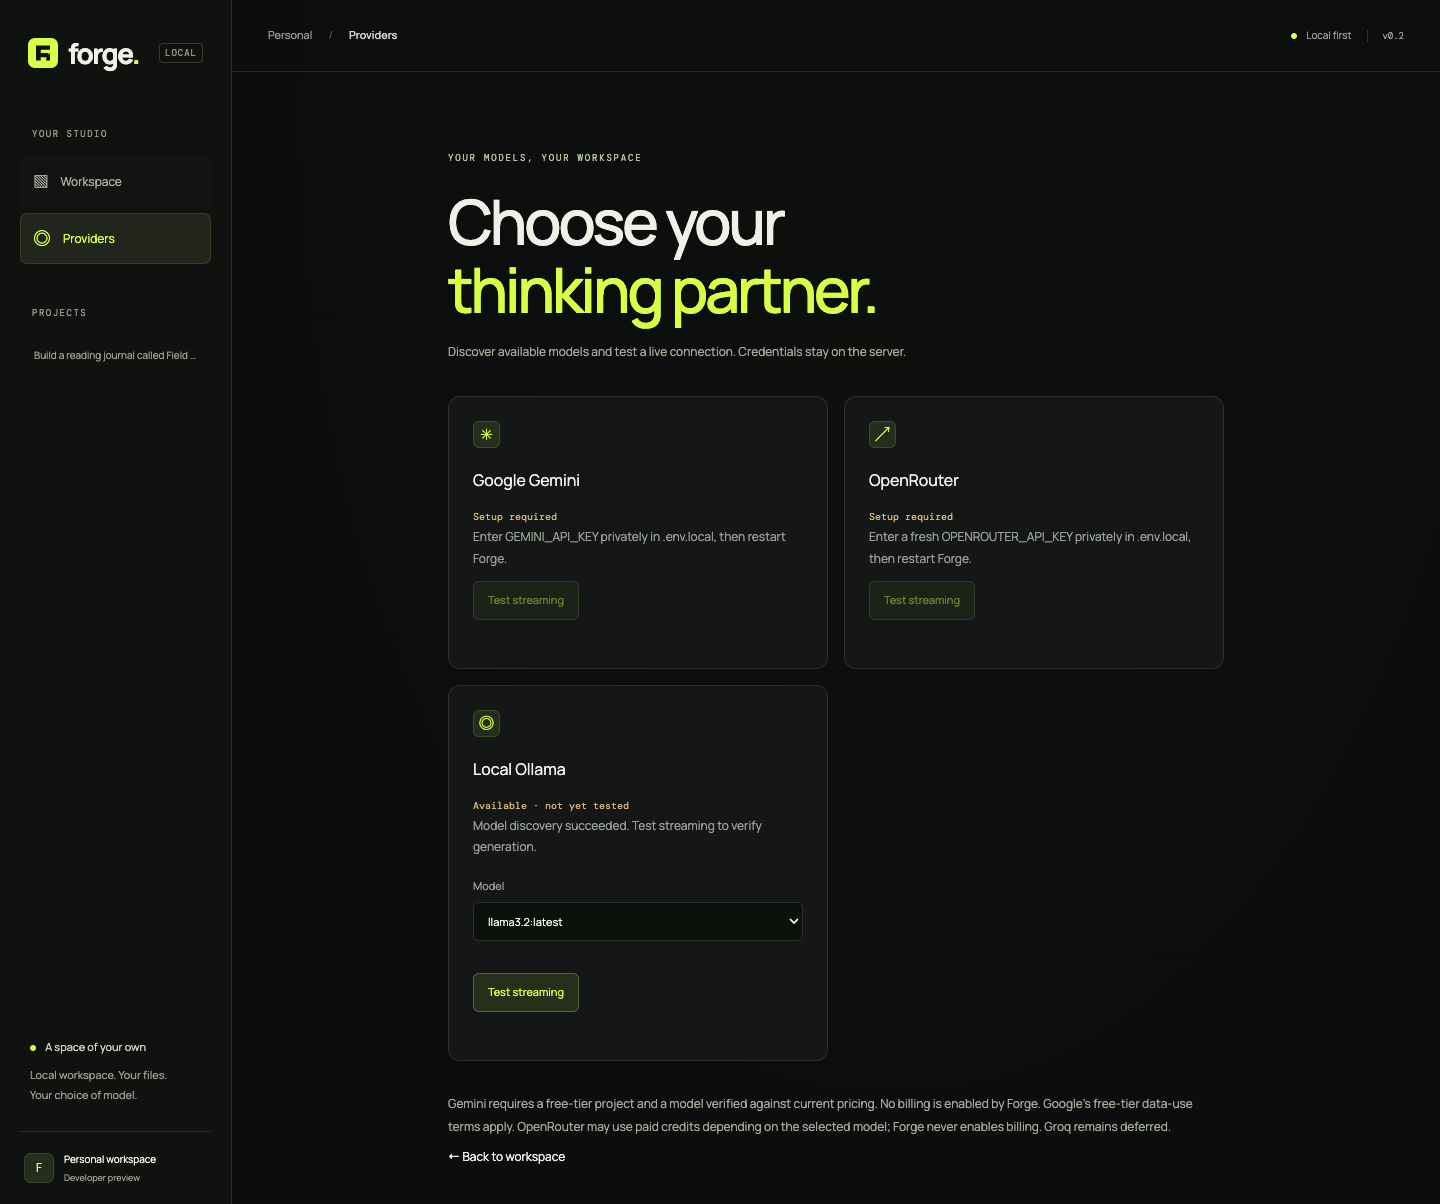
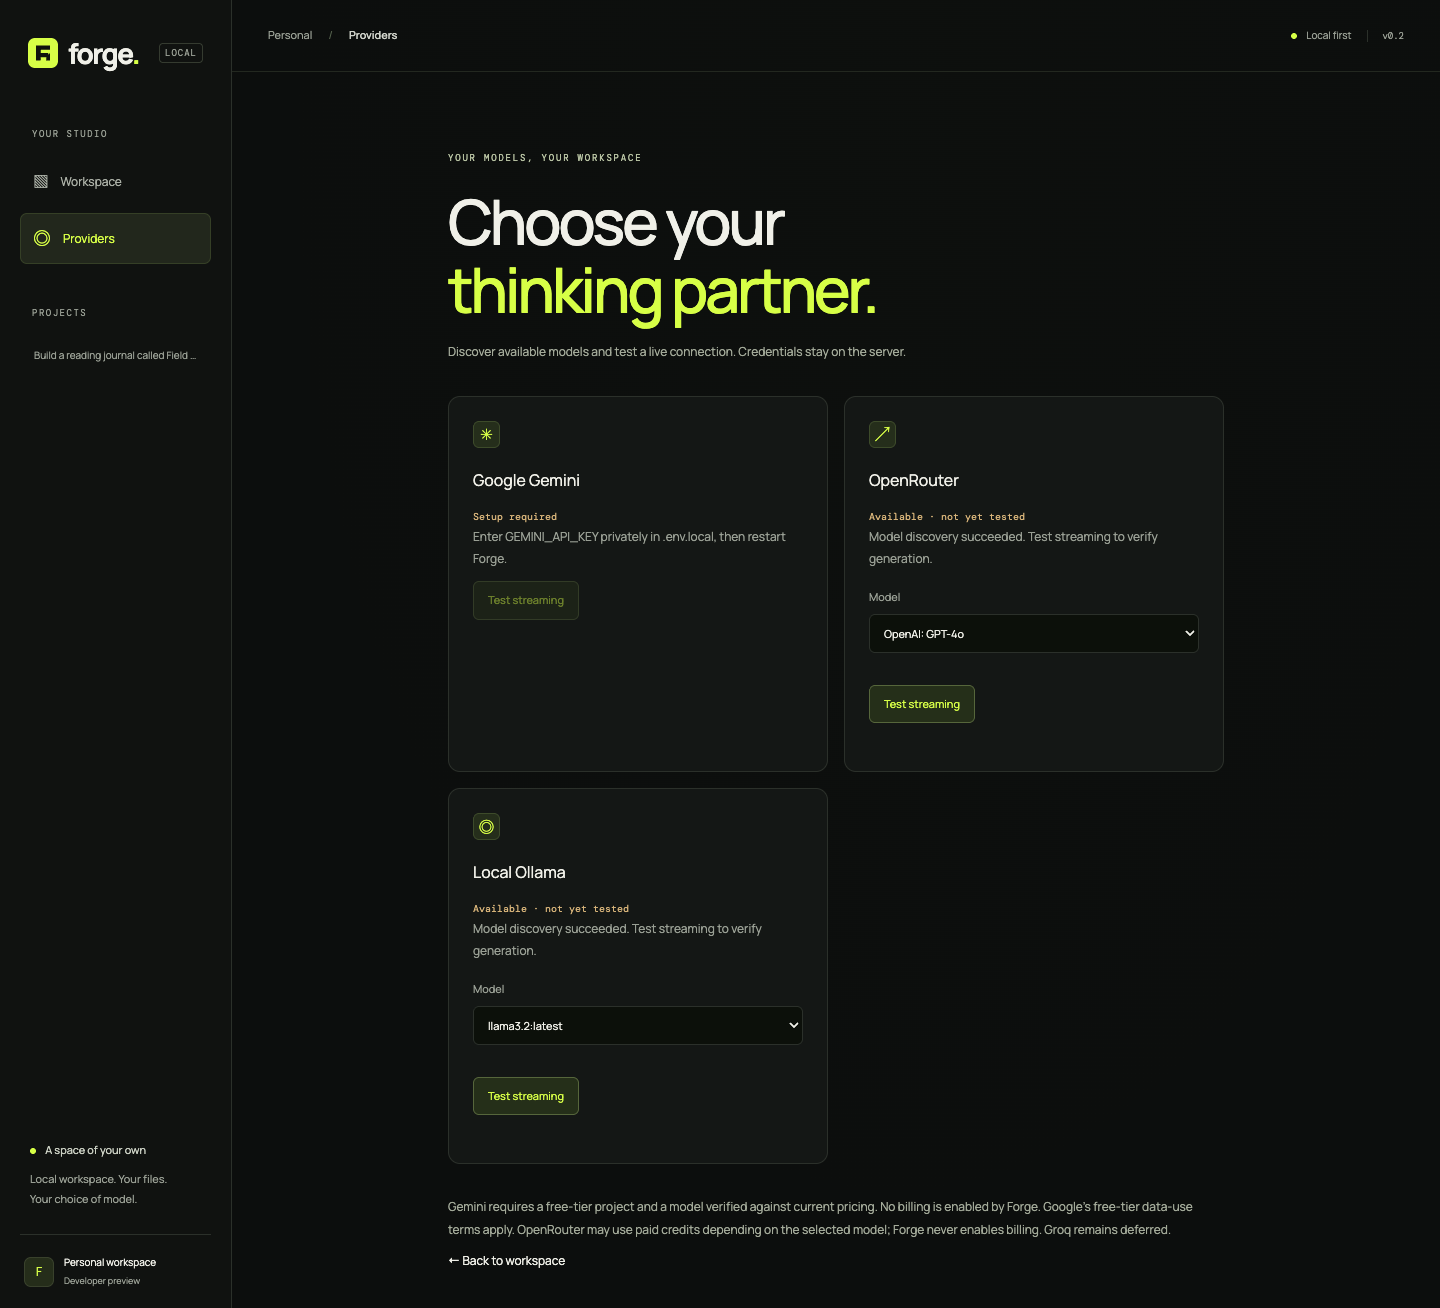
fix: accept live OpenRouter model catalogs

diff --git a/src/server/providers/openrouter.ts b/src/server/providers/openrouter.ts
@@ -9,18 +9,16 @@ import { ProviderError } from "./errors";
 import { boundedRequest, jsonFrames, request } from "./transport";
 
 const catalog = z.object({
-  data: z
-    .array(
-      z.object({
-        id: z.string().max(200),
-        name: z.string().max(300),
-        supported_parameters: z.array(z.string()).optional(),
-        top_provider: z
-          .object({ max_completion_tokens: z.number().positive().optional() })
-          .optional(),
-      }),
-    )
-    .max(2000),
+  data: z.array(z.unknown()).max(2000),
+});
+
+const catalogModel = z.object({
+  id: z.string().max(200),
+  name: z.string().max(300),
+  supported_parameters: z.array(z.string()).nullish(),
+  top_provider: z
+    .object({ max_completion_tokens: z.number().positive().nullish() })
+    .nullish(),
 });
 
 const chunk = z.object({
@@ -64,18 +62,26 @@ export class OpenRouterAdapter implements ProviderAdapter {
       { headers: this.headers() },
       AbortSignal.any([signal, AbortSignal.timeout(10_000)]),
     );
-    const parsed = catalog.safeParse(await response.json());
-    if (!parsed.success) throw new ProviderError("malformed");
-    return parsed.data.data
-      .filter((model) => model.id === this.allowedModel)
-      .map((model) => ({
-        id: model.id,
-        name: model.name,
-        outputTokenLimit: model.top_provider?.max_completion_tokens,
-        supportsStructuredOutputs:
-          model.supported_parameters?.includes("structured_outputs") ||
-          model.supported_parameters?.includes("response_format"),
-      }));
+    const parsedCatalog = catalog.safeParse(await response.json());
+    if (!parsedCatalog.success) throw new ProviderError("malformed");
+    const rawModel = parsedCatalog.data.data.find(
+      (model) =>
+        typeof model === "object" &&
+        model !== null &&
+        "id" in model &&
+        model.id === this.allowedModel,
+    );
+    if (!rawModel) return [];
+    const parsedModel = catalogModel.safeParse(rawModel);
+    if (!parsedModel.success) throw new ProviderError("malformed");
+    return [parsedModel.data].map((model) => ({
+      id: model.id,
+      name: model.name,
+      outputTokenLimit: model.top_provider?.max_completion_tokens ?? undefined,
+      supportsStructuredOutputs:
+        model.supported_parameters?.includes("structured_outputs") ||
+        model.supported_parameters?.includes("response_format"),
+    }));
   }
 
   async *generate(

diff --git a/tests/providers/providers.test.ts b/tests/providers/providers.test.ts
@@ -210,7 +210,12 @@ describe("provider contracts", () => {
     const fetch = vi.fn().mockResolvedValue(
       Response.json({
         data: [
-          { id: "other/model", name: "Other" },
+          {
+            id: "other/model",
+            name: "Other",
+            top_provider: { max_completion_tokens: null },
+          },
+          { id: null, name: null },
           {
             id: "openai/gpt-4o",
             name: "GPT-4o",

diff --git a/docs/reports/milestone-7-openrouter.md b/docs/reports/milestone-7-openrouter.md
@@ -8,7 +8,9 @@ Promoted OpenRouter from a neutral deferred ID to a full server-side provider. I
 
 Added an explicit `OPENROUTER_PAID_MODEL_CONFIRMED` gate. A key and model alone cannot send a request until the user confirms current pricing. HTTP 402 and streamed 402/429 failures become the existing actionable quota error; authentication, transient availability, malformed/truncated streams and token limits remain typed and sanitized. Optional attribution identifies the loopback Forge application without sending project content in headers.
 
-The supplied key was pasted into chat and therefore treated as exposed. It was not written to the repository or `.env.local`, not used for model discovery, and not sent in a completion. The public official catalog confirmed `openai/gpt-4o` exists, advertises `structured_outputs`/`response_format`, and has nonzero prompt/completion pricing. Live authentication and paid inference remain intentionally unverified.
+The user explicitly authorized local configuration and paid use of the supplied key. It is stored only in ignored, mode-600 `.env.local`; tracked files contain no credential. The authenticated catalog confirmed `openai/gpt-4o` exists, advertises `structured_outputs`/`response_format`, and allows 16,384 output tokens. A live five-token completion returned `Forge is ready.` through both the adapter and the actual provider UI.
+
+The live catalog also exposed nullable metadata on unrelated models. Discovery now bounds the catalog as unknown entries, selects the configured ID, and strictly validates only that entry. This preserves malformed-target rejection without letting unrelated catalog records disable the configured model.
 
 References: [OpenRouter quickstart](https://openrouter.ai/docs/quickstart), [models API](https://openrouter.ai/docs/guides/overview/models), and [structured outputs](https://openrouter.ai/docs/guides/features/structured-outputs).
 
@@ -17,17 +19,19 @@ References: [OpenRouter quickstart](https://openrouter.ai/docs/quickstart), [mod
 - `npm run verify` passed: lint, type checking, 48 unit/contract/security tests, and the production build.
 - Provider contract fixtures cover configured-only discovery, header authentication without URL leakage, structured SSE deltas, terminal usage, strict JSON Schema routing, unconfigured-model rejection, paid-use gating, and streamed credit errors.
 - Existing Gemini/Ollama, local API, file validation, preview isolation, revision and browser tests remain passing. `npm audit --audit-level=moderate` reports zero vulnerabilities.
-- The production browser suite passed 11 tests with one optional real Ollama inference test skipped. Production provider UI was inspected at 375, 768 and 1440 pixels and captured locally without credentials. Foreign-origin rejection, keyboard behavior, Monaco editing, live preview and revision rebuilding remain covered.
-- Live OpenRouter completion is pending a fresh privately configured key and explicit paid-use confirmation.
+- The production provider/browser suite passed 9 tests with three optional real-workflow tests skipped. Provider UI was inspected at 375, 768 and 1440 pixels and captured locally without credentials. The live UI reported `Streaming verified: Forge is ready.` Foreign-origin rejection and keyboard behavior remain passing.
+- A full structured GPT-4o revision reached OpenRouter but received its credit/quota response. Forge recorded the failed job and restarted the previous working preview, verifying recovery without applying a partial revision. The recovered interface and unchanged application are captured in `docs/evidence/openrouter-recovery.png`. The authenticated key metadata identifies the key as free tier with no configured credit limit, so full paid-model generation is blocked until the OpenRouter account has credit.
 
-## Required private setup
+## Remaining external action
 
-Revoke the exposed key in OpenRouter, create a replacement, and add these values directly to ignored `.env.local`:
+Add credit to the OpenRouter account that owns the configured key. No repository change is required. After credit is available, restart is unnecessary: submit the revision again with OpenRouter selected.
+
+The local configuration is:
 
 ```dotenv
-OPENROUTER_API_KEY=<fresh replacement key>
+OPENROUTER_API_KEY=<configured locally>
 OPENROUTER_MODEL=openai/gpt-4o
 OPENROUTER_PAID_MODEL_CONFIRMED=true
 ```
 
-The final value authorizes credit-consuming requests. Restart both the web server and worker, open Providers, and run Test streaming before selecting OpenRouter for generation.
+The final value authorizes credit-consuming requests. The key value is intentionally omitted from this report.

diff --git a/README.md b/README.md
@@ -35,7 +35,7 @@ Gemini is the only required cloud adapter. Configure its key privately in ignore
 
 Model discovery, streaming, cancellation in the provider check, bounded retries, timeouts and output limits are implemented. Gemini quota/unavailability/timeout failures explicitly switch to an available local Ollama model and discard partial output. Groq retains a neutral deferred contract and does not require an account.
 
-OpenRouter is an optional implemented provider. Rotate any key shared through chat, then place the replacement only in ignored `.env.local`. Set one exact `OPENROUTER_MODEL`; Forge rejects other model IDs. Because OpenRouter models may consume credits, review the current catalog pricing and set `OPENROUTER_PAID_MODEL_CONFIRMED=true` only after accepting that cost. The configured default in `.env.example` is `openai/gpt-4o`, which was present in the catalog and advertised structured output when this integration was verified. Forge uses strict JSON Schema output, requires a route supporting that parameter, and reports authentication, credit/quota, timeout, malformed-stream and output-limit failures without exposing the provider response body. OpenRouter is fixture-tested and catalog-verified; no paid completion was sent during implementation.
+OpenRouter is an optional implemented provider. Place its key only in ignored `.env.local` and set one exact `OPENROUTER_MODEL`; Forge rejects other model IDs. Because OpenRouter models may consume credits, review the current catalog pricing and set `OPENROUTER_PAID_MODEL_CONFIRMED=true` only after accepting that cost. The configured default in `.env.example` is `openai/gpt-4o`, which was present in the catalog and advertised structured output when this integration was verified. Forge uses strict JSON Schema output, requires a route supporting that parameter, and reports authentication, credit/quota, timeout, malformed-stream and output-limit failures without exposing the provider response body. OpenRouter model discovery and a live streaming completion were verified. A full GPT-4o generation requires an OpenRouter key with paid-model credit.
 
 Secrets stay in the control processes. Generated containers receive no provider keys, host mounts, Docker socket or Forge database connection. They use non-root execution, resource limits, read-only roots and an internal network. A trusted relay and loopback preview proxy expose the application on a separate origin with restrictive browser policy. This is a local developer tool, not a hosted multi-user sandbox.
 
